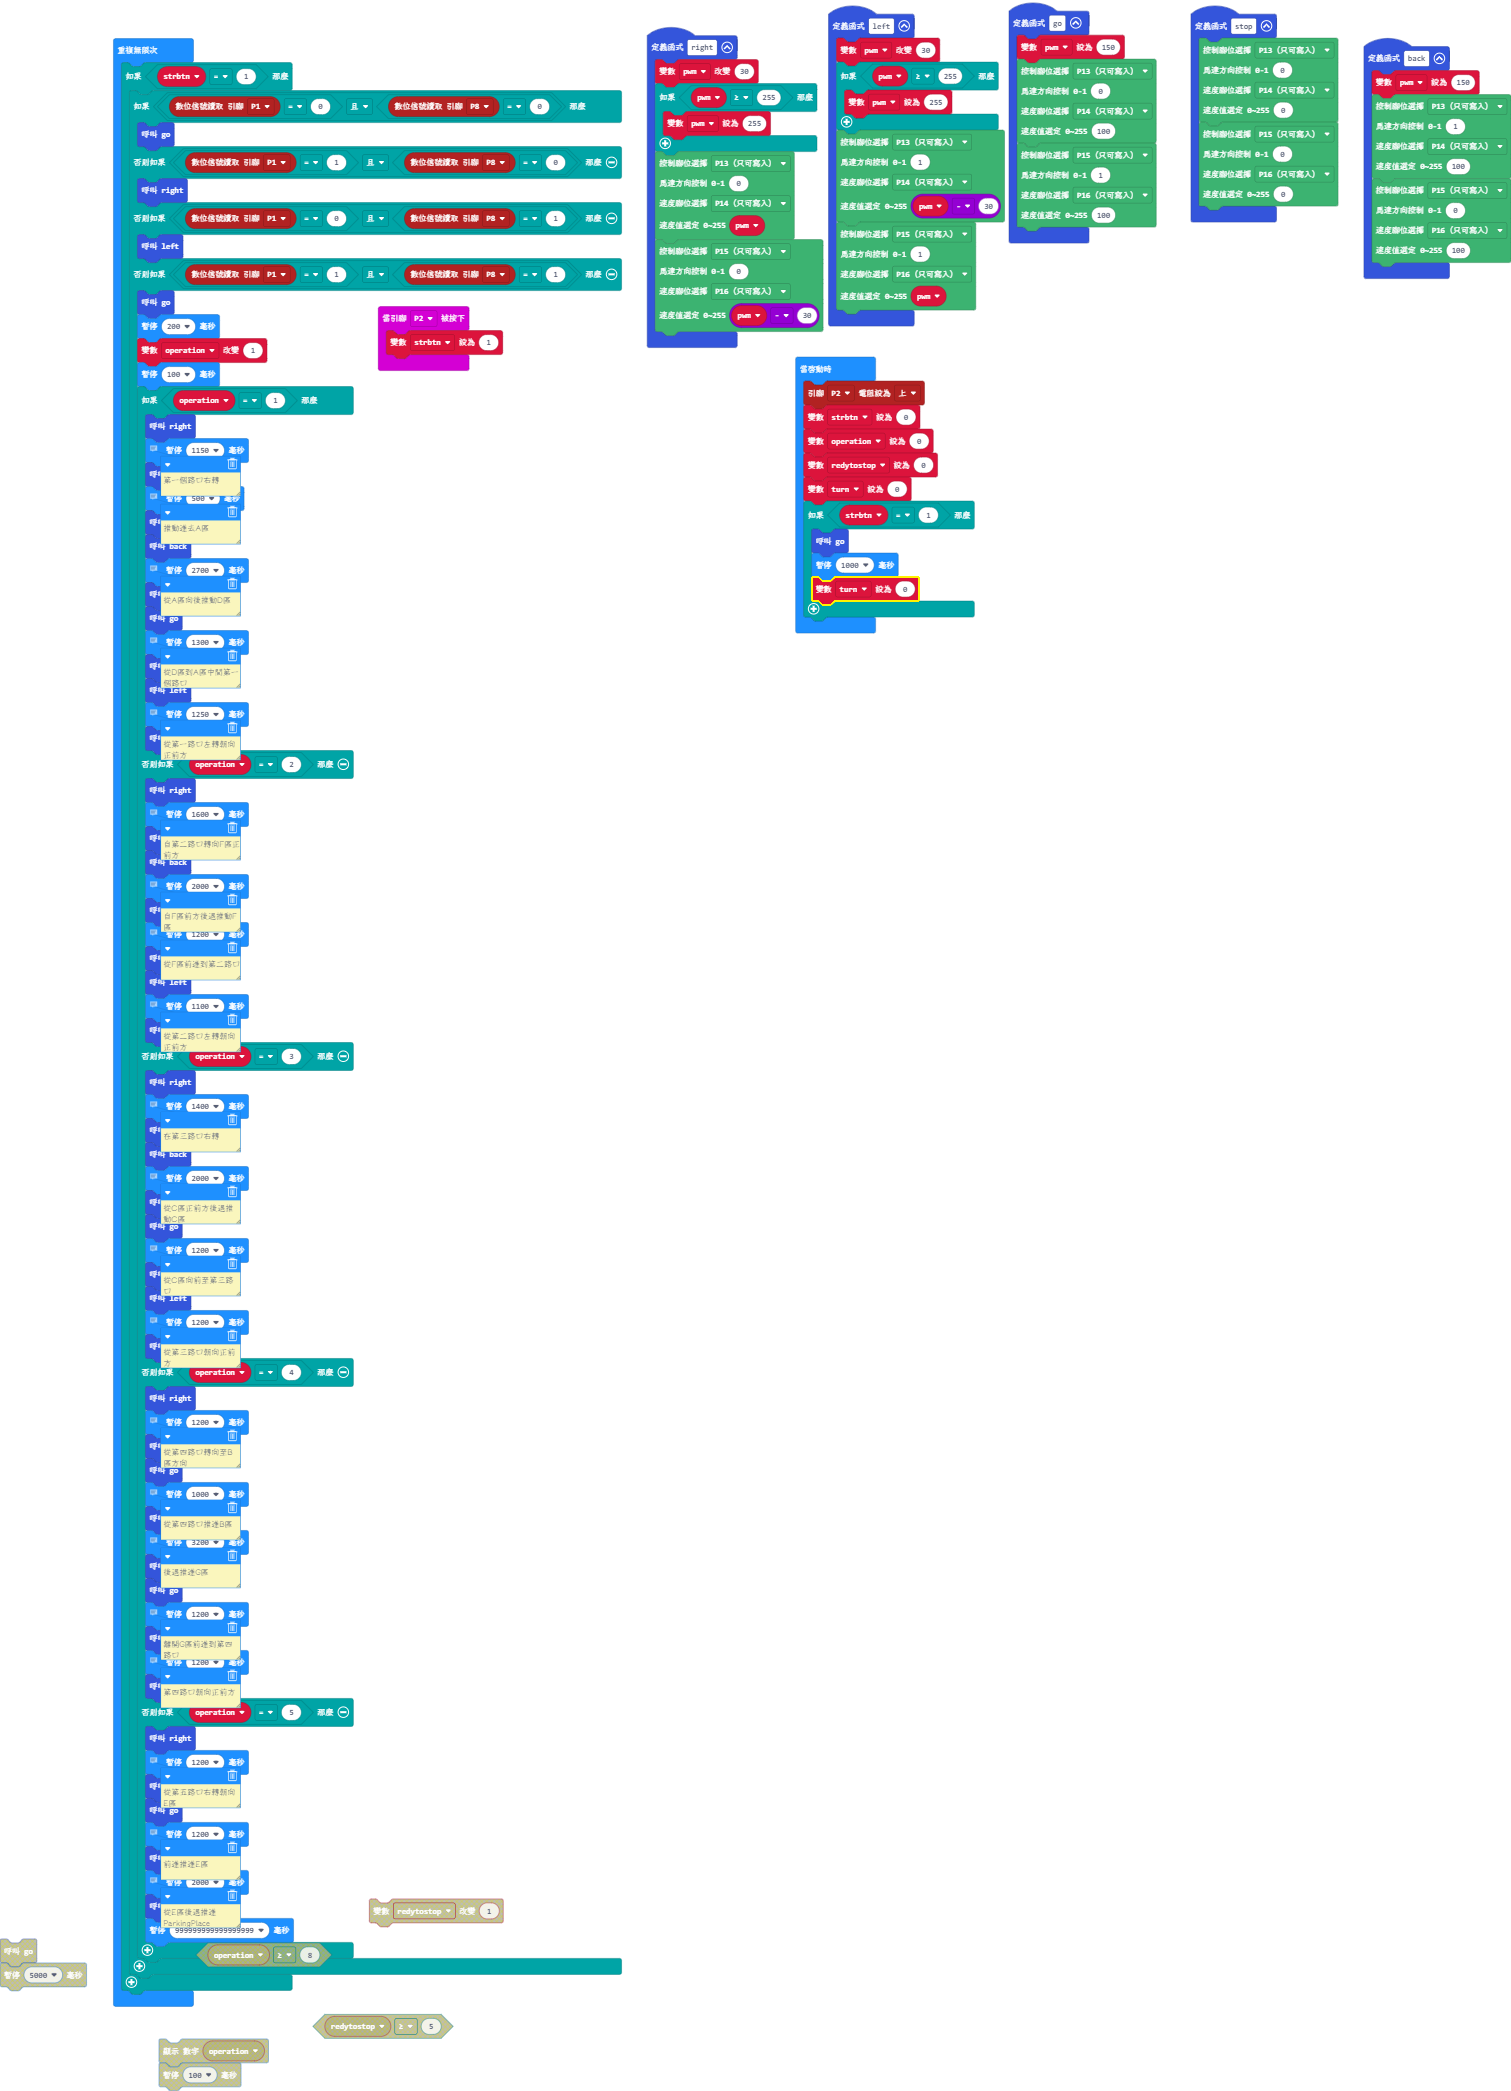
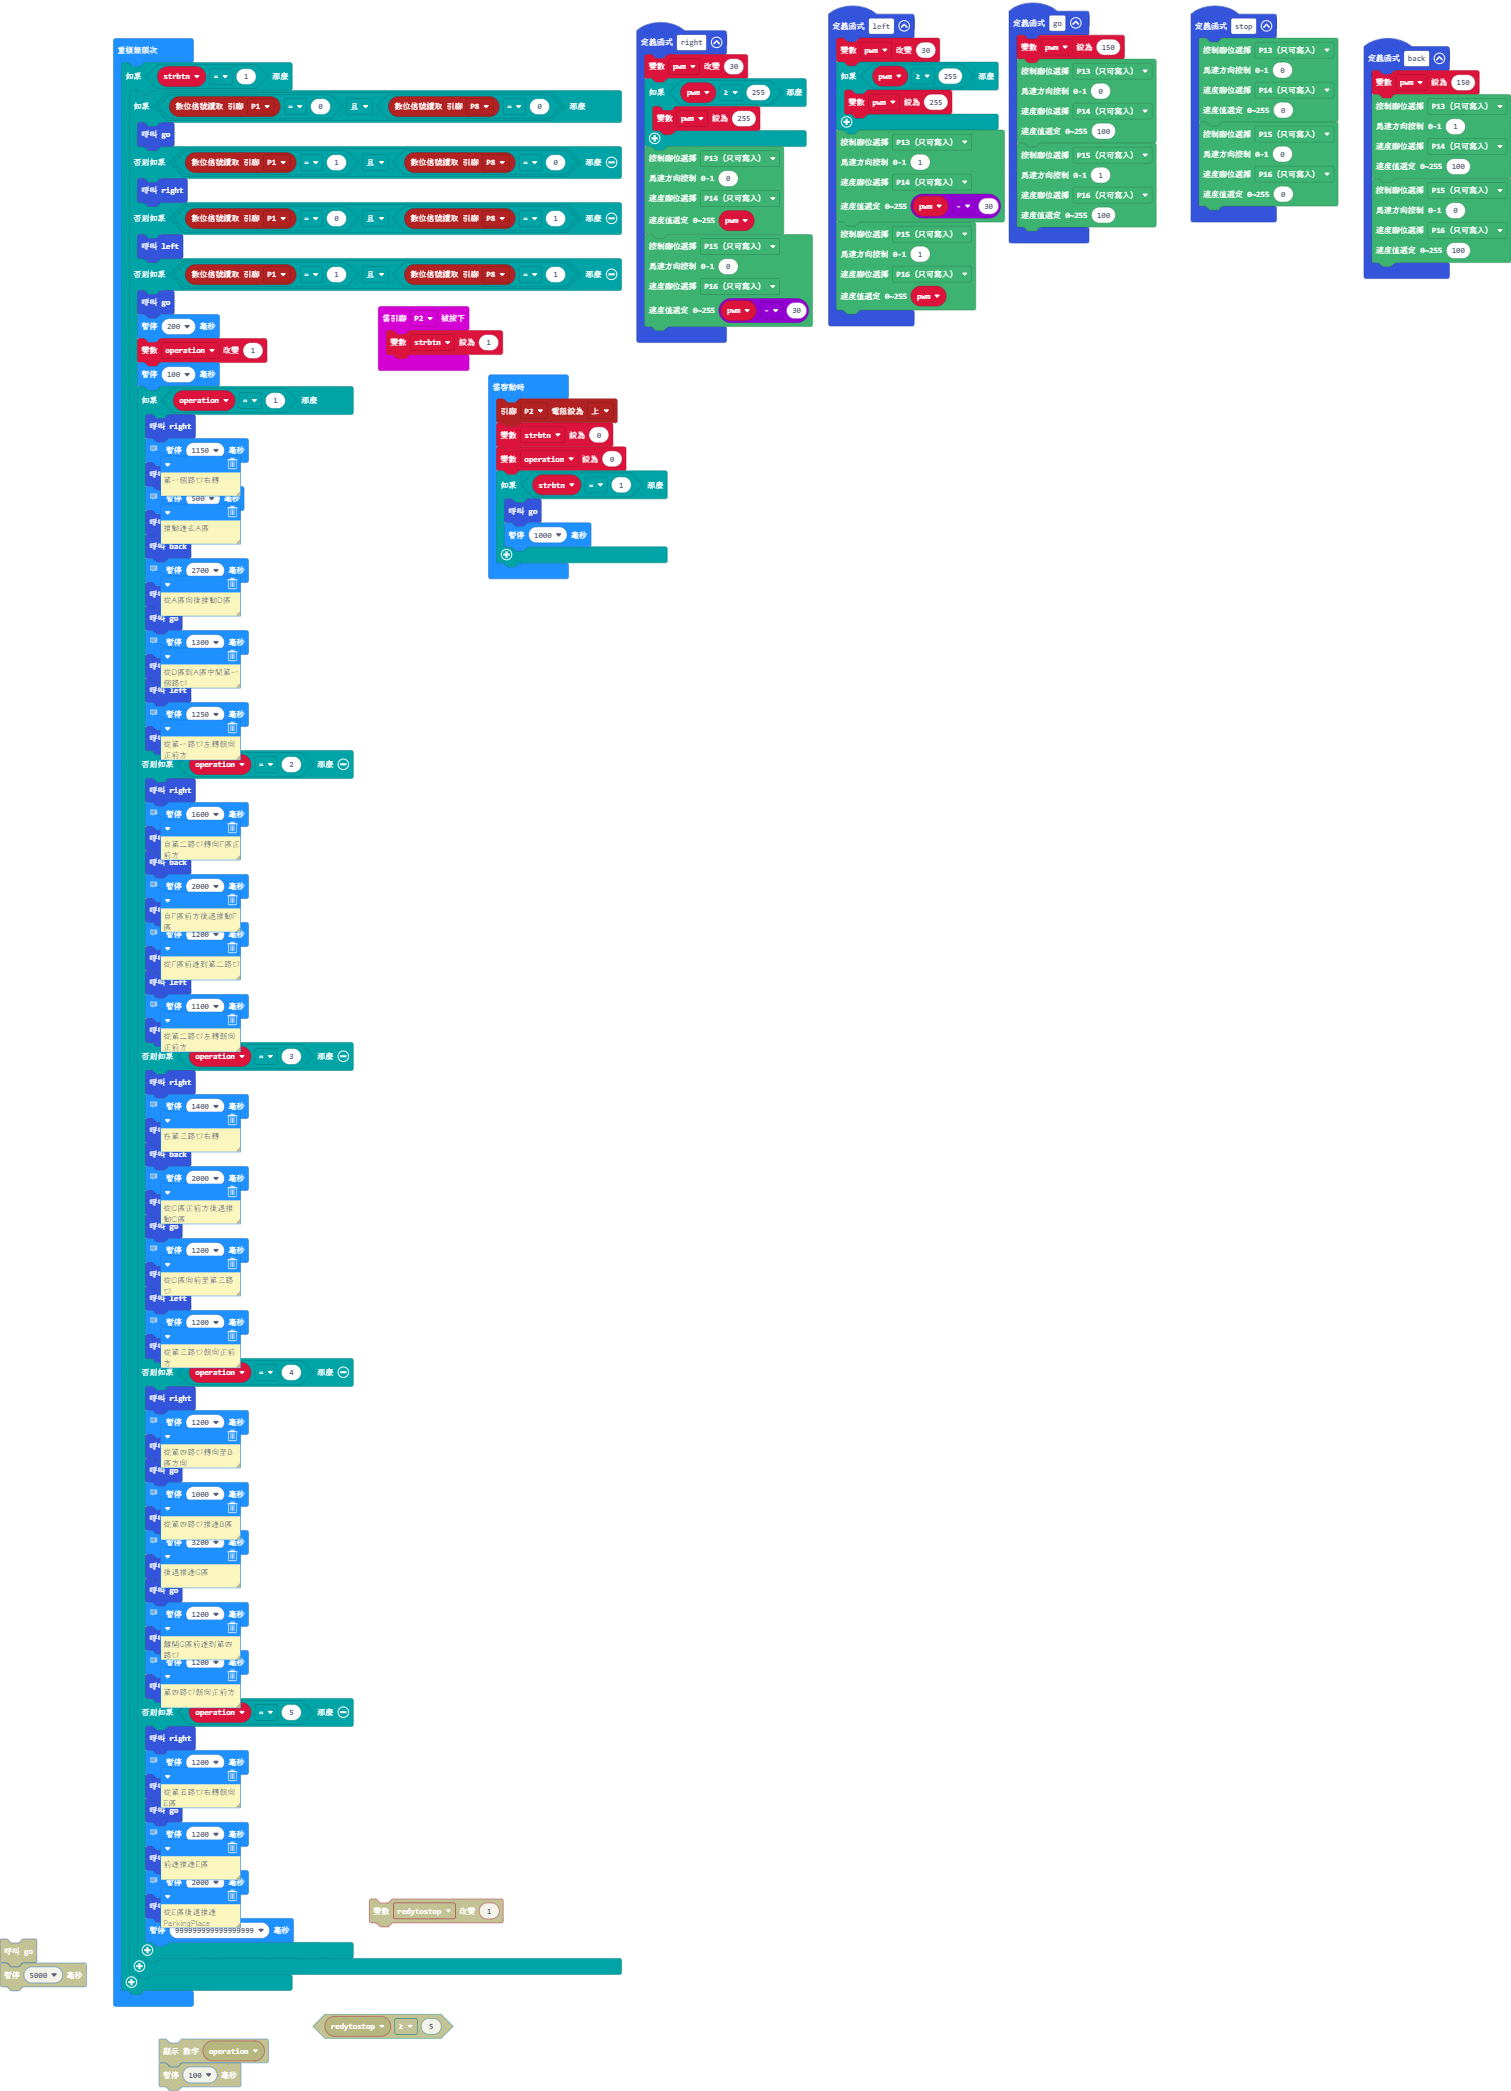
更新 main.blocks, main.ts

Changed region(s): [[0.3111, 0.0, 0.6532, 0.3109], [0.1244, 0.9015, 0.2177, 0.9637]]

diff --git a/main.ts b/main.ts
@@ -86,12 +86,9 @@ let strbtn = 0
 pins.setPull(DigitalPin.P2, PinPullMode.PullUp)
 strbtn = 0
 let operation = 0
-let redytostop = 0
-let turn = 0
 if (strbtn == 1) {
     go()
     basic.pause(1000)
-    turn = 0
 }
 basic.forever(function () {
     if (strbtn == 1) {
